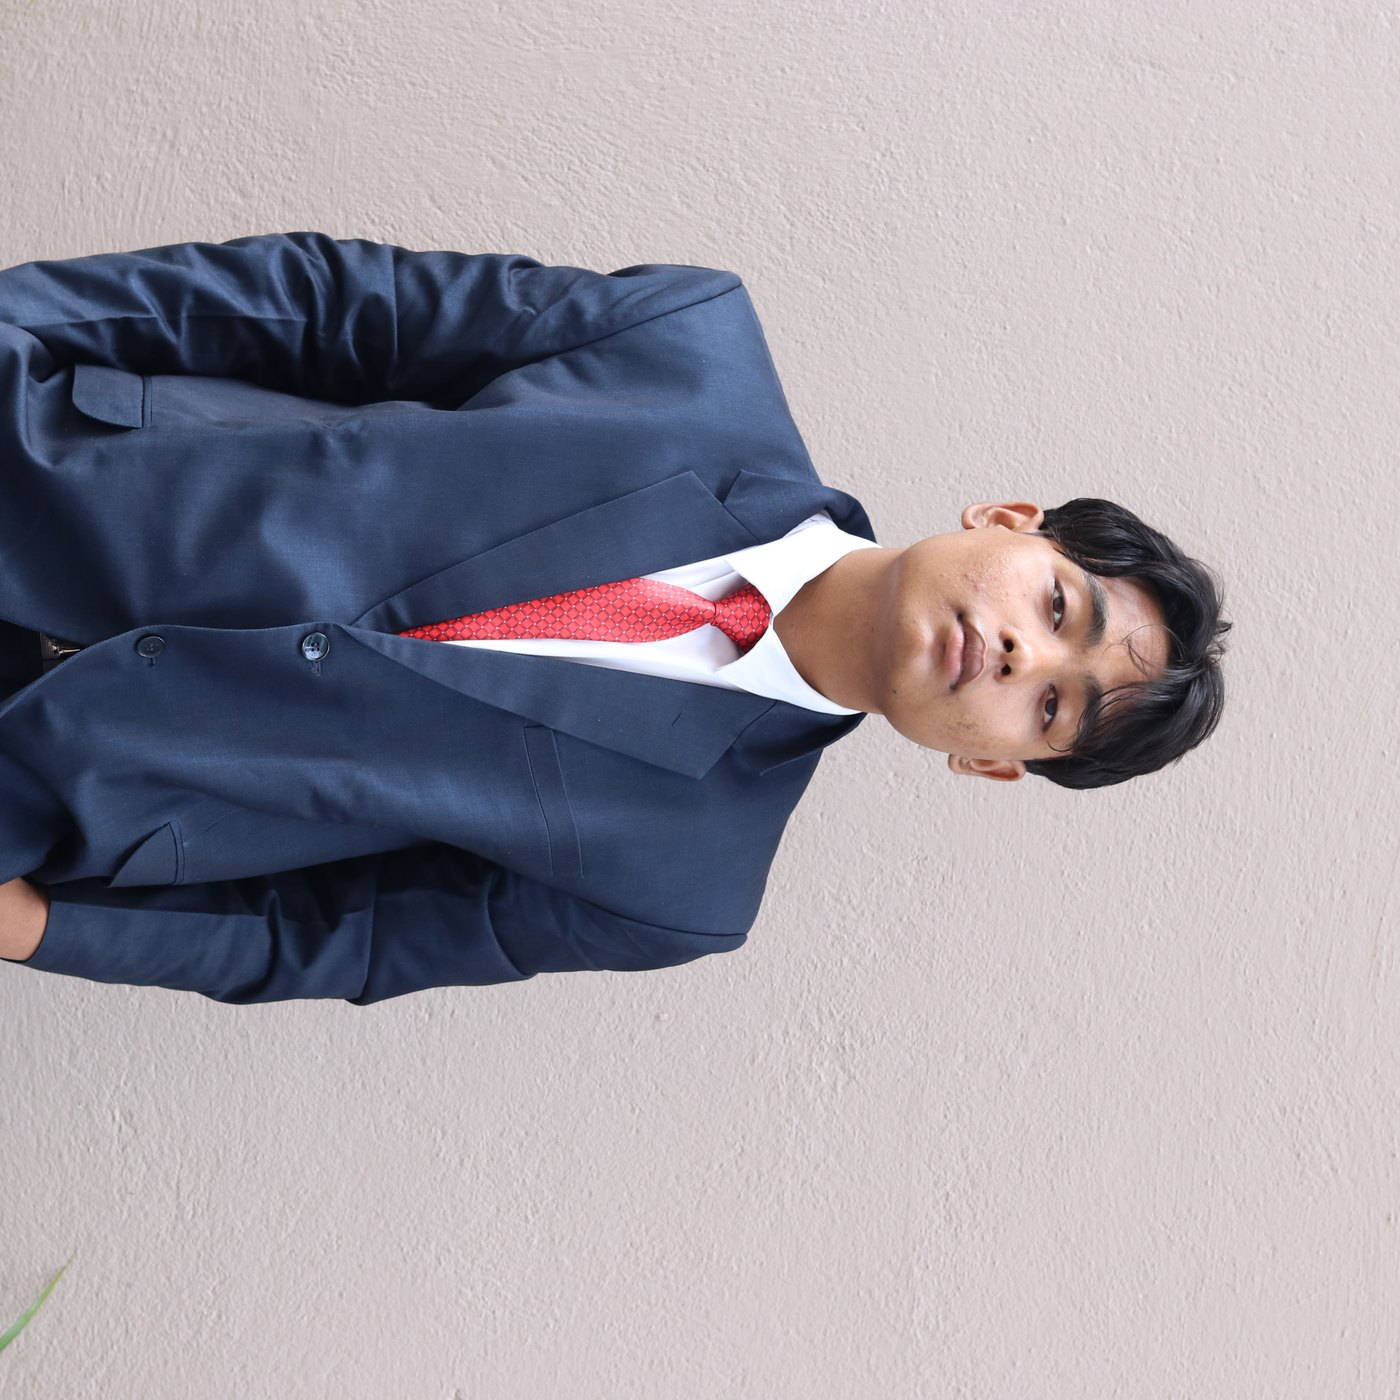
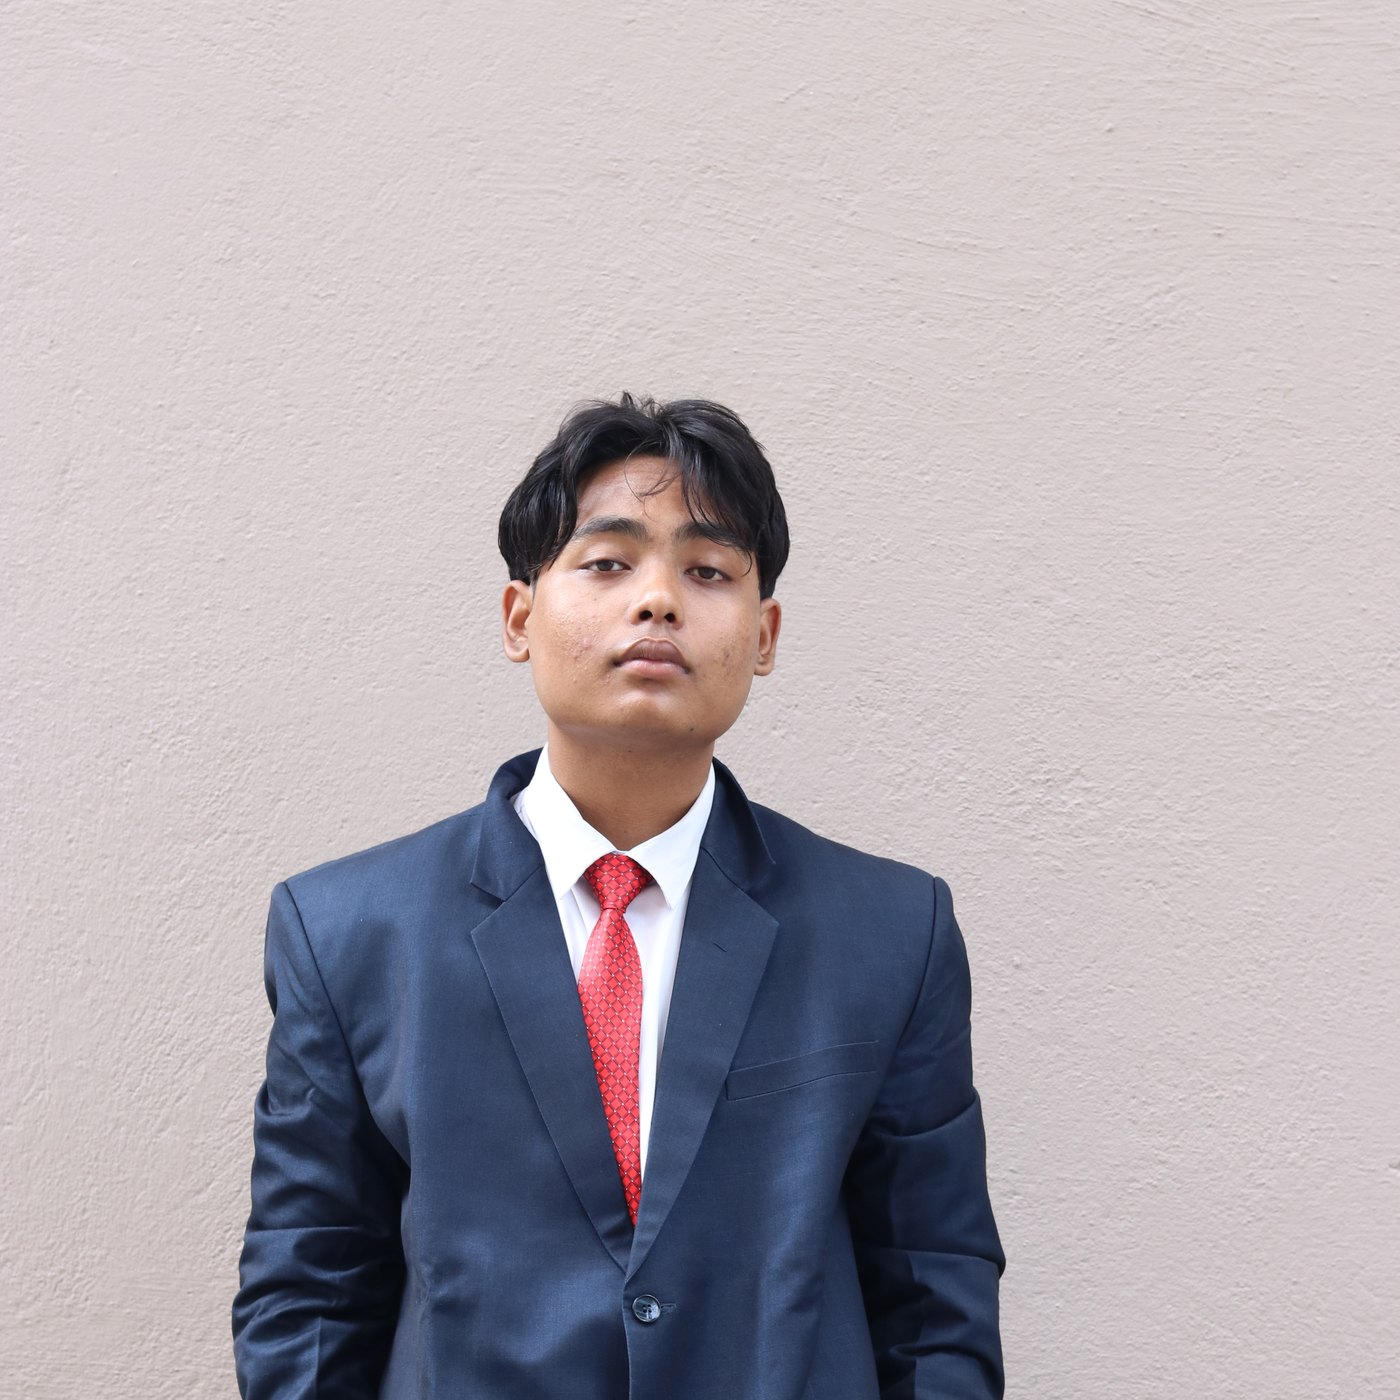
Fix secretariat portrait orientation; enlarge the circle
The previous crop ignored EXIF orientation, so the 4000×6000 portrait
DSLR shots were treated as 6000×4000 landscapes and came out rotated
90° on the page. ImageOps.exif_transpose() now happens before crop,
and the square crop is biased toward the top of the frame so the face
lands inside the circle instead of mid-torso.

Also nudges .usg .portrait-sm from 64→88px (56→72 on mobile) so the
faces are easier to read in the secretariat grid.

diff --git a/app/globals.css b/app/globals.css
@@ -1192,12 +1192,12 @@ img { display: block; max-width: 100%; }
   .usg:nth-last-child(-n+2) { border-bottom: 0; }
 }
 .usg .portrait-sm {
-  width: 64px; height: 64px; border-radius: 50%;
+  width: 88px; height: 88px; border-radius: 50%;
   background: var(--paper-light); border: 1px solid var(--line-2);
   display: grid; place-items: center;
   font-family: var(--font-serif), serif; font-style: italic;
-  font-size: 22px; color: var(--accent);
-  margin-bottom: 18px;
+  font-size: 28px; color: var(--accent);
+  margin-bottom: 20px;
   position: relative;
 }
 .usg.placeholder .portrait-sm {
@@ -2696,7 +2696,7 @@ img { display: block; max-width: 100%; }
 
   /* Secretariat USG grid */
   .usg { padding: 22px 18px; }
-  .usg .portrait-sm { width: 56px; height: 56px; font-size: 20px; margin-bottom: 14px; }
+  .usg .portrait-sm { width: 72px; height: 72px; font-size: 24px; margin-bottom: 16px; }
   .usg .role { font-size: 16px; }
 
   /* EB grid */

diff --git a/app/team/page.tsx b/app/team/page.tsx
@@ -262,7 +262,7 @@ function UsgCard({ officer }: { officer: Officer }) {
             src={officer.photo}
             alt=""
             fill
-            sizes="64px"
+            sizes="88px"
             style={{
               objectFit: "cover",
               objectPosition: officer.photoPosition ?? "center",
